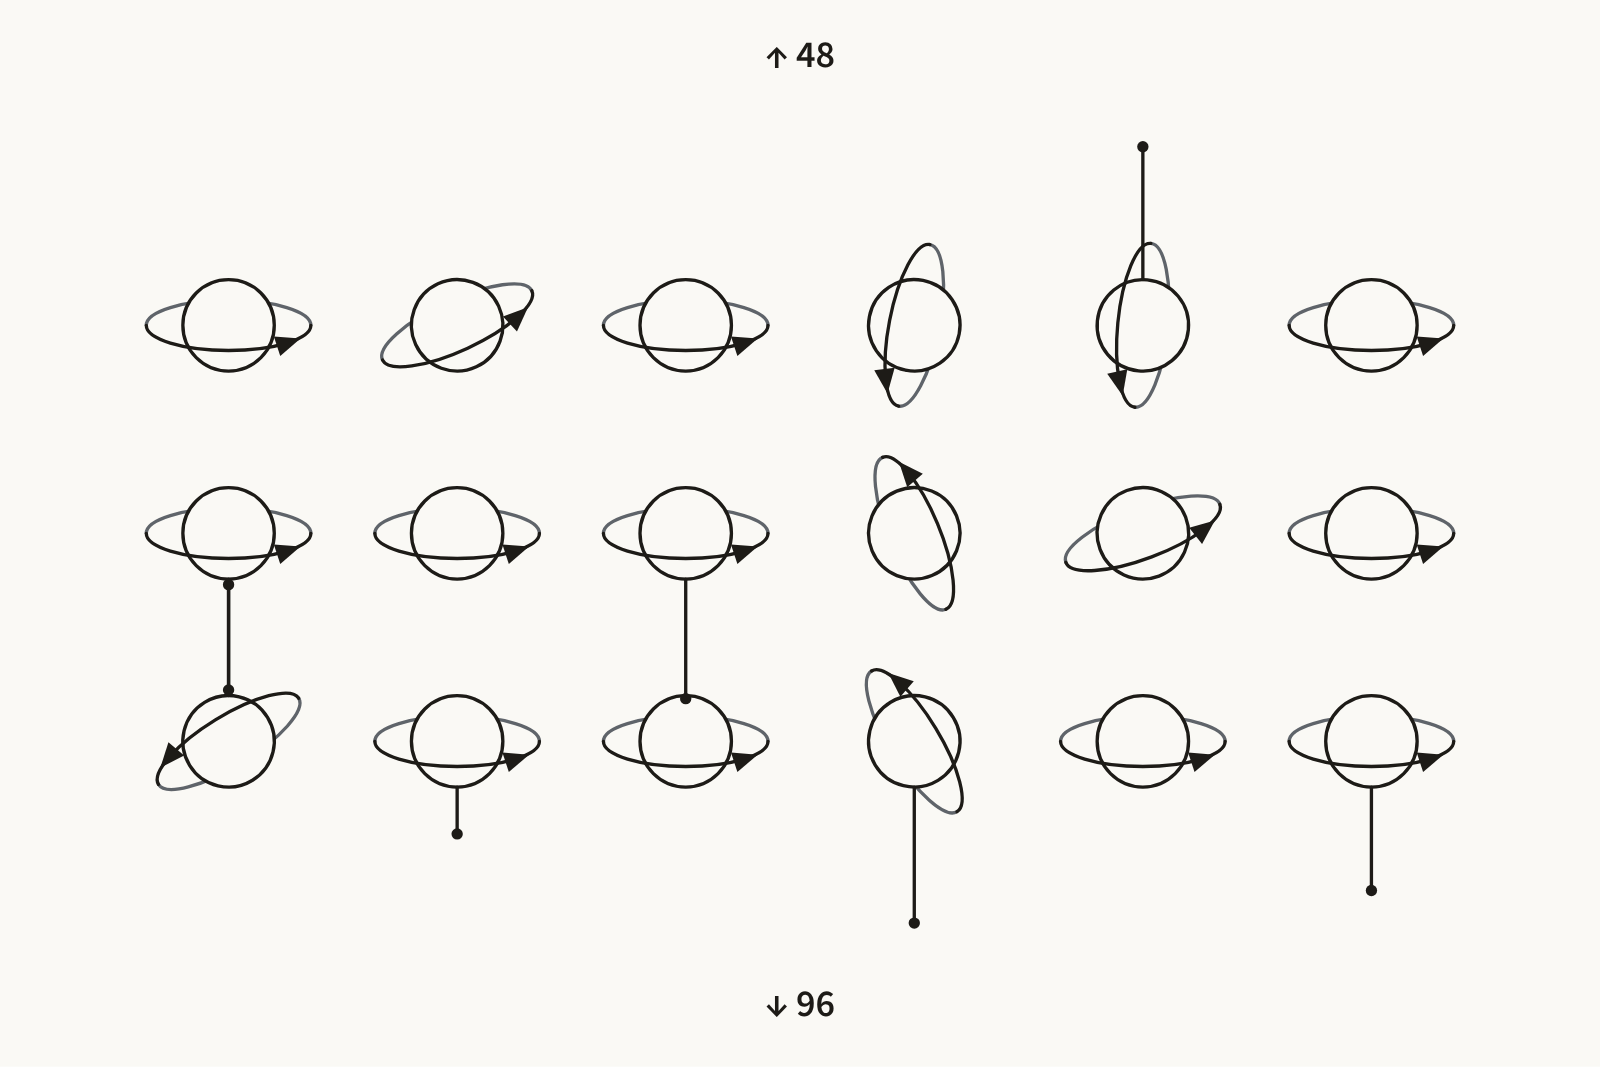
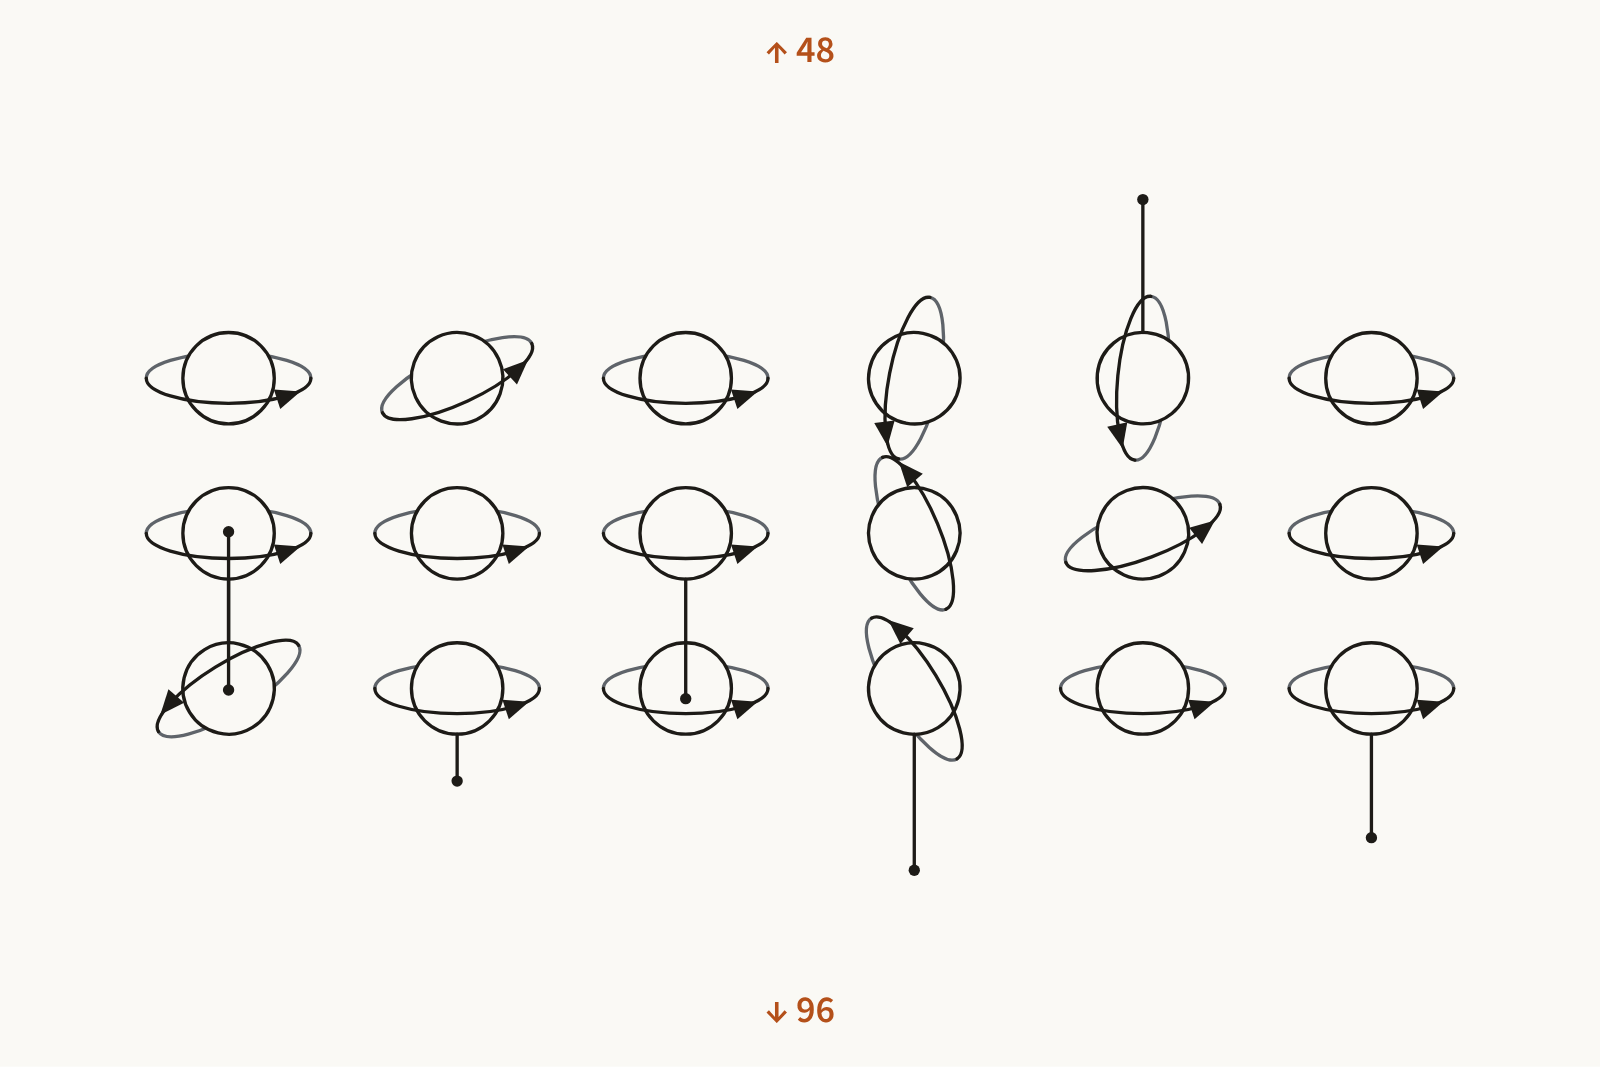
Wu's cobalt: catchable electrons, accent tallies, 'Flying down' meter with the fair-coin range
Dan, 2026-11-25: electrons were too fast to catch by hand; tallies in the accent;
show the ratio and the expected range. Electrons now take 1.4 s to cross open sky
above and below a compact crystal; the share flying down is a meter under the
figure, with the fair-coin band revealed at 40 counts (tested: inside the band
<=> 'even'). Guard frame() before the first measure.

Claude-Session: https://claude.ai/code/session_01KXhEcQAuKZgS7s6hqtfv8y

diff --git a/widgets/wu-cobalt/wu-cobalt.js b/widgets/wu-cobalt/wu-cobalt.js
@@ -8,10 +8,10 @@
 import { ULWidget, define, el, rng } from '../core/core.js';
 import { button, slider, row, StatusLine } from '../core/controls.js';
 import { createStage } from '../core/stage.js';
-import { PARAMS, tempAt, sliderFor, isCold, jiggle, alignTarget, ranks, linedUp, pDownOne, verdict, warmStep } from '../engines/cobalt.js';
+import { PARAMS, tempAt, sliderFor, isCold, jiggle, alignTarget, ranks, linedUp, pDownOne, verdict, fairRange, warmStep } from '../engines/cobalt.js';
 import { COLS, ROWS, layout, drawCobalt } from './draw.js';
 
-const HIT = 30;        // px: how close a tap must land to an electron's head
+const HIT = 36;        // px: how close a tap must land to an electron's head
 const POP = 0.5;       // s: a catch's ring
 const SAY_EVERY = 3;   // s: how often screen readers hear the counts
 
@@ -21,7 +21,7 @@ class WuCobalt extends ULWidget {
   static buttons = ['magnet', 'auto', 'reset'];
   static strings = { en: {
     invite: 'Cool the crystal. Line up the nuclei. Catch the electrons.',
-    label: 'Cobalt nuclei in a crystal, drawn as small balls with a spinning ring. Electrons fly up or down out of them; the counts are at the top and the bottom.',
+    label: 'Cobalt nuclei in a crystal, drawn as small balls with a spinning ring. Electrons fly up or down out of them; the counts are at the top and the bottom, and a meter below shows the share flying down against the range a fair coin gives.',
     keys: 'Keys: Enter catches an electron.',
     start: 'Drag the slider to cool the crystal.',
     warm: 'Too warm: the nuclei jiggle every which way. Keep cooling.',
@@ -31,21 +31,23 @@ class WuCobalt extends ULWidget {
     tap: 'Most of the nuclei now spin the same way. Tap the electrons to count them.',
     keep: 'Keep tapping, or let the detector count for you.',
     detector: 'The detector never gets bored…',
-    lean: 'More fly down than up. Nature can tell the two ends apart.',
+    lean: 'More fly down than a fair coin allows. Nature can tell the two ends apart.',
     off: 'Magnet off: the nuclei drift every which way. Count again and compare.',
-    even: 'Up and down come out even: nothing picks out an end.',
+    even: 'Inside the fair-coin range: nothing picks out an end.',
     warming: 'Warming up. The nuclei scatter. Cool it again to keep counting.',
     magnet: 'Magnet', auto: 'Detector', reset: 'Reset',
+    share: 'Flying down', fair: 'fair coin',
     temp: 'Temperature', cold: '{s} s of cold', counts: 'Up {up}, down {down}.',
   } };
 
   mount() {
     this.random = rng(this.num('seed', Date.now() % 1e9));
     const invite = el('p', { className: 'ul-invite', textContent: this.t('invite') });
-    this.stage = createStage(document.createDocumentFragment(), { aspect: '3 / 2', phoneAspect: '4 / 3', label: `${this.t('label')} ${this.t('keys')}`, focusable: true });
+    this.stage = createStage(document.createDocumentFragment(), { aspect: '3 / 2', phoneAspect: '1 / 1', label: `${this.t('label')} ${this.t('keys')}`, focusable: true });
     this.temp = slider({ label: this.t('temp'), min: 0, max: 100, step: 1, value: 0, format: (v) => fmtK(tempAt(v)),
       onInput: (v) => { if (!this.warming) { this.T = tempAt(v); this.go(); } } });
     this.tempInput = this.temp.querySelector('input'); this.tempOut = this.temp.querySelector('output');
+    this.meter = shareMeter(this.t('share'), this.t('fair'));
     this.status = new StatusLine({ gap: 0, hold: 0 });
     this.status.reserve(this.constructor.status.map((k) => this.t(k)));
     this.sr = el('p', { className: 'ul-sr' }); this.sr.setAttribute('aria-live', 'polite');
@@ -58,7 +60,7 @@ class WuCobalt extends ULWidget {
     const cv = this.stage.canvas;
     cv.addEventListener('pointerdown', (e) => this.tap(e));
     cv.addEventListener('keydown', (e) => { if (e.key === 'Enter' || e.key === ' ') { e.preventDefault(); this.catchOldest(); } });
-    this.replaceChildren(invite, this.stage.box, this.temp, this.status.el, row(this.btn.magnet, this.btn.auto, this.btn.reset), this.sr);
+    this.replaceChildren(invite, this.stage.box, this.meter.el, this.temp, this.status.el, row(this.btn.magnet, this.btn.auto, this.btn.reset), this.sr);
     this.c = this.colors();
     this.reset();
   }
@@ -68,6 +70,7 @@ class WuCobalt extends ULWidget {
   retune() { this.c = this.colors(); this.draw(); }
   frame(dt) {
     dt = Math.max(0, dt);   // the first frame's dt can come out a hair below zero (core.js)
+    if (!this.L) return;    // not measured yet (resize() comes from a ResizeObserver)
     this.time += dt;
     // the cold window, then the warm-up
     const cold = isCold(this.T);
@@ -91,7 +94,7 @@ class WuCobalt extends ULWidget {
     }
     // electrons
     if (this.random() < dt * (this.auto ? PARAMS.detectorRate : PARAMS.handRate)) this.emit();
-    const speed = (this.auto ? 3 : 1.1) * this.stage.h;
+    const speed = this.L.sky / (this.auto ? PARAMS.flightDetector : PARAMS.flightHand);   // px per second
     for (const s of this.shots) s.l += dt * speed;
     this.shots = this.shots.filter((s) => { const y = s.y + s.d * s.l; return y > this.L.top * 0.6 && y < this.L.h - this.L.band * 0.6; });
     this.pops = this.pops.filter((p) => (p.t += dt) < POP);
@@ -198,6 +201,8 @@ class WuCobalt extends ULWidget {
     return { x: p.x + n.jx * j, y: p.y + n.jy * j };
   }
   draw() {
+    const n = this.up + this.down;
+    this.meter?.set(n ? this.down / n : null, n >= PARAMS.minCount ? fairRange(n) : null);
     if (!this.c || !this.L || !this.stage.w) return;
     this.stage.clear();
     const cold = isCold(this.T) && !this.warming;
@@ -207,6 +212,37 @@ class WuCobalt extends ULWidget {
       clock: cold ? this.t('cold').replace('{s}', Math.max(0, Math.ceil(PARAMS.coldSeconds - this.coldFor))) : null,
     });
   }
+}
+
+// The share meter: the share of electrons flying down (orange marker) on a 0–100% track, with the
+// range a fair coin gives (grey band, labelled) once there are enough counts to judge.
+// Built from house pieces: .ul-field and .ul-range's look; colours only from tokens.
+function shareMeter(label, fairLabel) {
+  const wrap = el('div', { className: 'ul-field' });
+  el('span', { className: 'ul-field-label', textContent: label }, wrap);
+  const track = el('div', {}, wrap), band = el('div', {}, track), tag = el('span', { textContent: fairLabel }, track);
+  const mid = el('div', {}, track), mark = el('div', {}, track);
+  const out = el('output', { textContent: '–' }, wrap);
+  Object.assign(wrap.style, { marginTop: '.25rem' });
+  Object.assign(wrap.firstChild.style, { fontFamily: 'var(--ul-serif)', fontStyle: 'italic', fontSize: '1.05rem', color: 'var(--ul-grey)', whiteSpace: 'nowrap' });
+  Object.assign(track.style, { position: 'relative', flex: '1 1 auto', minWidth: '6rem', height: '44px' });
+  track.setAttribute('aria-hidden', 'true');
+  const line = el('div', {}, track);
+  Object.assign(line.style, { position: 'absolute', left: 0, right: 0, top: '21px', height: '2px', background: 'var(--ul-rule)' });
+  Object.assign(band.style, { position: 'absolute', top: '15px', height: '14px', background: 'color-mix(in srgb, var(--ul-ghost) 45%, transparent)', display: 'none' });
+  Object.assign(tag.style, { position: 'absolute', top: '-1px', transform: 'translateX(-50%)', fontFamily: 'var(--ul-sans)', fontSize: '.7rem', color: 'var(--ul-grey)', whiteSpace: 'nowrap', display: 'none' });
+  Object.assign(mid.style, { position: 'absolute', left: '50%', top: '15px', width: '1.5px', height: '14px', background: 'var(--ul-grey)' });
+  Object.assign(mark.style, { position: 'absolute', top: '13px', width: '4px', height: '18px', marginLeft: '-2px', borderRadius: '1px', background: 'var(--ul-accent)', display: 'none' });
+  out.style.color = 'var(--ul-accent)'; out.style.fontWeight = '600';
+  let last = '';
+  return { el: wrap, set(share, range) {
+    const key = `${share}|${range}`; if (key === last) return; last = key;
+    mark.style.display = share == null ? 'none' : 'block';
+    if (share != null) mark.style.left = `${share * 100}%`;
+    out.textContent = share == null ? '–' : `${Math.round(share * 100)}%`;
+    band.style.display = tag.style.display = range ? 'block' : 'none';
+    if (range) { band.style.left = `${range[0] * 100}%`; band.style.width = `${(range[1] - range[0]) * 100}%`; tag.style.left = '50%'; }
+  } };
 }
 
 // a small random wander that stays near 0, with spread s (Ornstein–Uhlenbeck, relaxing in ~0.4 s)

diff --git a/widgets/wu-cobalt/draw.js b/widgets/wu-cobalt/draw.js
@@ -8,10 +8,14 @@ export const COLS = 6, ROWS = 3;
 const SANS = "'Source Sans 3', system-ui, sans-serif";
 
 export function layout(w, h) {
-  const band = Math.max(28, h * 0.11), top = band, bot = h - band;
-  const gx = w / (COLS + 1), gy = (bot - top) / (ROWS + 1);
-  const r = Math.min(gx * 0.2, gy * 0.22);
-  return { w, h, band, top, bot, gx, gy, r, at: (c, k) => ({ x: (c + 1) * gx, y: top + (k + 1) * gy }) };
+  // The crystal sits in a compact block in the middle; the open sky above and below is where
+  // the electrons fly, and where the reader catches them.
+  const band = Math.max(28, h * 0.1), top = band, bot = h - band;
+  const gx = w / (COLS + 1), gy = Math.min(gx * 0.9, (bot - top) / 5.5);
+  const r = Math.min(gx * 0.2, gy * 0.3), cy = h / 2;
+  const crystalTop = cy - gy * (ROWS - 1) / 2 - r * 1.2;
+  return { w, h, band, top, bot, gx, gy, r, sky: crystalTop - top,
+    at: (c, k) => ({ x: (c + 1) * gx, y: cy + (k - (ROWS - 1) / 2) * gy }) };
 }
 
 // o: { nuclei: [{x, y, tilt}], shots: [{x, y, d, l, mine, counted}], pops: [{x, y, t}],
@@ -52,9 +56,9 @@ export function drawCobalt(ctx, c, L, o) {
     ctx.beginPath(); ctx.arc(q.x, q.y, r * (0.5 + q.t * 3), 0, 2 * Math.PI); ctx.stroke();
     ctx.globalAlpha = 1;
   }
-  // the counts, where the electrons arrive
-  const fs = Math.round(Math.max(15, Math.min(20, L.band * 0.42)));
-  ctx.textAlign = 'center'; ctx.textBaseline = 'middle'; ctx.fillStyle = c.ink;
+  // the counts, where the electrons arrive: the reader's tallies, in the accent
+  const fs = Math.round(Math.max(15, Math.min(20, L.band * 0.45)));
+  ctx.textAlign = 'center'; ctx.textBaseline = 'middle'; ctx.fillStyle = c.accent;
   ctx.font = `600 ${fs}px ${SANS}`;
   ctx.fillText(`↑ ${o.up}`, L.w / 2, L.band / 2);
   ctx.fillText(`↓ ${o.down}`, L.w / 2, L.h - L.band / 2);
@@ -63,3 +67,4 @@ export function drawCobalt(ctx, c, L, o) {
     ctx.fillText(o.clock, L.w - 4, L.band / 2);
   }
 }
+

diff --git a/widgets/engines/cobalt.js b/widgets/engines/cobalt.js
@@ -18,6 +18,8 @@ export const PARAMS = {
   LEAN: 0.5,           // illustrative: a lined-up nucleus sends 75% of its electrons down
   handRate: 3.5,       // electrons per second while the reader taps
   detectorRate: 18,    // electrons per second once the detector counts
+  flightHand: 1.4,     // seconds an electron takes to cross the open sky, while the reader taps
+  flightDetector: 0.35,// the same, once the detector counts
   minCount: 40,        // the widget passes no verdict on fewer electrons than this
   sigmas: 2,           // how far from even counts as "more fly down" (in coin-flip standard deviations)
 };
@@ -53,6 +55,12 @@ export const linedUp = (rank, align) => rank < align;
 export const pDownOne = (lined) => (lined ? 0.5 + 0.5 * PARAMS.LEAN : 0.5);
 // The same, averaged over the crystal, given the fraction lined up.
 export const pDown = (align) => 0.5 + 0.5 * PARAMS.LEAN * clamp01(align);
+
+// The fair-coin range for the share flying down, after n electrons: 50% ± sigmas standard deviations.
+export function fairRange(n) {
+  const half = PARAMS.sigmas * 0.5 / Math.sqrt(Math.max(1, n));
+  return [Math.max(0, 0.5 - half), Math.min(1, 0.5 + half)];
+}
 
 // What the counts say: null (too few to tell), 'lean' (clearly more down than up),
 // 'even' (within the spread a fair coin gives), or 'uneven' (lopsided, but not down-heavy).

diff --git a/widgets/wu-cobalt/spec.md b/widgets/wu-cobalt/spec.md
@@ -12,9 +12,11 @@
 - **Temperature** slider, log scale, 300 K → 0.003 K. At 0.003 K a 12-second clock starts on the figure ("Quick, we can't stay near absolute zero for long!"). When it runs out, the crystal warms by itself (about 4 s), the nuclei scatter, counting stops, and the reader may cool it again.
 - **Magnet** (a switch, filled when on). Cold plus magnet: 11 of the 18 nuclei (about 60%, as in Wu's run) swing round to spin the same way, spin up; the rest stay every which way. Lining up starts only below 0.1 K.
 - **Catch electrons.** Electrons fly straight up or down out of the nuclei. Tap one to count it (it turns orange, with a small ring). Keyboard: Enter or Space catches the electron that has flown furthest. **Detector** (a switch; first named "Count for me", renamed so the three buttons fit one row at 360 px) hands the counting to a detector that counts every electron, faster.
-- Counts: ↑ at the top of the figure, ↓ at the bottom, where the electrons arrive (Dan: "It's just up or down on the screen").
+- Counts: ↑ at the top of the figure, ↓ at the bottom, where the electrons arrive (Dan: "It's just up or down on the screen"), in the accent: your catches and your tallies are one thing (Dan, 2026-11-25).
+- **Slower, with room to catch** (Dan, 2026-11-25: "the electrons fly too fast across a short window. I couldn't possibly capture them manually"). The nuclei sit in a compact block in the middle; open sky above and below. By hand an electron takes 1.4 s to cross the sky (was about 0.3 s); the detector's take 0.35 s. Tap target 36 px.
+- **Flying down meter** under the figure (Dan asked for the ratio and the expected range): the share flying down as an orange mark and a percentage on a 0–100% track, with a grey band labelled "fair coin" (50% ± 2 standard deviations) once there are 40 counts: the expected range revealed only after the reader has made the data, as in The Lawful Coin. Inside the band ⇔ the status says "even" (tested). Dan's other idea, the ratio in the caption, was not taken: on phones the caption sits below the buttons, and captions stay one fixed sentence.
 - **A count belongs to one setup.** It starts again at the first catch after the setup changes: lined up or not, and each new cold spell. So a verdict never mixes two setups.
-- Status line, in order of play: start → warm → cooler → quick → lining → tap → keep / detector → **lean** ("More fly down than up. Nature can tell the two ends apart."). Magnet off while cold: off → **even**. Warm-up: warming.
+- Status line, in order of play: start → warm → cooler → quick → lining → tap → keep / detector → **lean** ("More fly down than a fair coin allows. Nature can tell the two ends apart."). Magnet off while cold: off → **even**. Warm-up: warming.
 
 ## Honesty (each sentence rests on a test)
 - **Real:** 0.003 K; cold held ~15 min (compressed to 12 s); at most ~60% lined up; more electrons opposite the spin (Wu et al. 1957; SEP figure 2; NIST SP 958). Drawn: spin up, so more fly down.
@@ -22,7 +24,7 @@
 - **Verdicts:** "more fly down" only when down − up exceeds 2√n with n ≥ 40, in a lined-up run; "even" only when |down − up| ≤ 2√n with n ≥ 40, in a run with the magnet off. Tests: disordered runs read "even" in ≥ 93% of runs; lined up, the detector reaches "more fly down" within 10 s in ≥ 95%. By hand, a cold spell yields about 30 catches, too few for a verdict: the detector is the payoff.
 
 ## Behaviour
-Starts moving on view; under reduced motion it waits for the reader's first move. Canvas is a tab stop (Enter catches). Counts read to screen readers every 3 s. Fits one phone screen (about 490 px tall at 390 px).
+Starts moving on view; under reduced motion it waits for the reader's first move. Canvas is a tab stop (Enter catches). Counts read to screen readers every 3 s. Fits one phone screen (about 640 px tall at 360–390 px).
 
 ## Dropped designs
-Real or Mirror? (1.8a) cut by Ryan ("Not needed"). The curled right hand and Mirror switch (1.8b v1) dropped: confused lay readers (Dan). "Seen from above / below" and "top / bottom" labels dropped (Dan). Magnet on/off label swap replaced by a switch (house rule). "Count for me" became "Detector": the row overflowed at 360 px.
+Real or Mirror? (1.8a) cut by Ryan ("Not needed"). The curled right hand and Mirror switch (1.8b v1) dropped: confused lay readers (Dan). "Seen from above / below" and "top / bottom" labels dropped (Dan). Magnet on/off label swap replaced by a switch (house rule). A vertical up/down gauge at the figure's right edge (tried 2026-11-25): no room for words beside it, so it became the labelled meter row. "Count for me" became "Detector": the row overflowed at 360 px.
